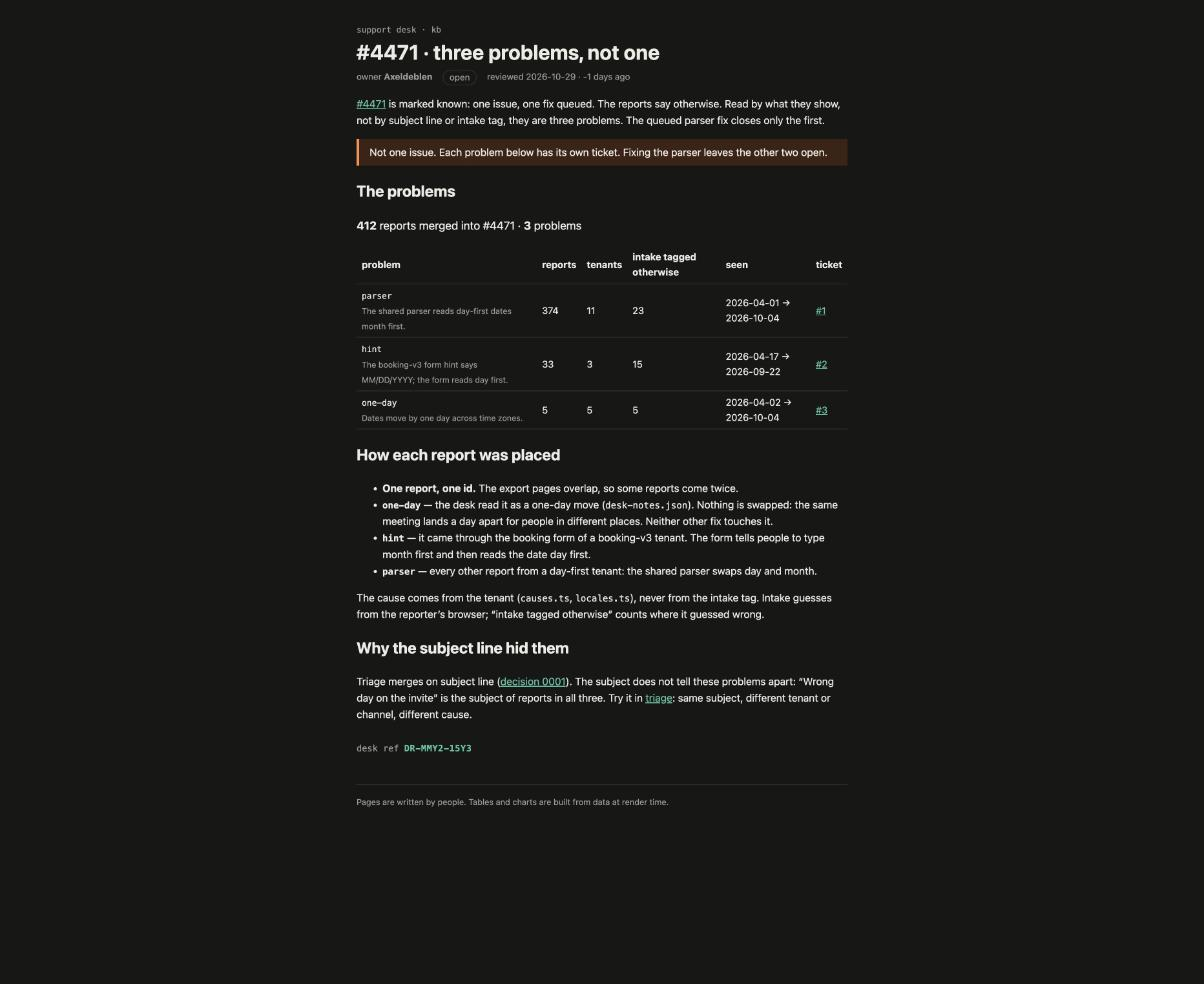
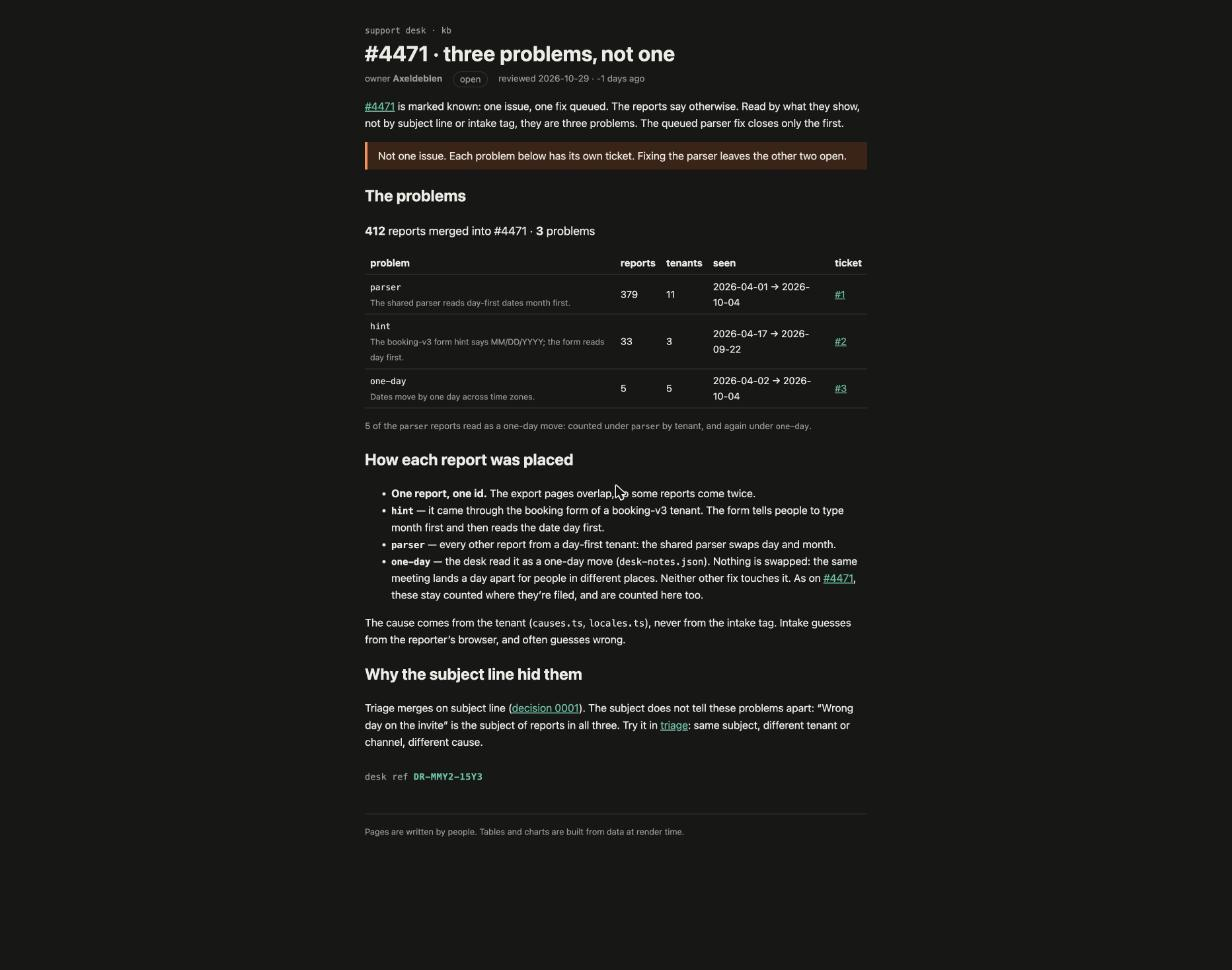
kb: count #4471 problems the desk's way (parser 379, hint 33, one-day 5)
ProblemTable now reuses groupByCause/readAs from causes.ts, so one-day moves stay
counted where they're filed (parser) and are counted again under one-day, as on
the #4471 page. Issue #1 updated to 379.

diff --git a/rendered/kb/incidents/4471/problems.html b/rendered/kb/incidents/4471/problems.html
@@ -9,41 +9,42 @@
 		<link href="../../../_app/immutable/chunks/B2Ul7l_u.js" rel="modulepreload">
 		<link href="../../../_app/immutable/chunks/BCPXOG7W.js" rel="modulepreload">
 		<link href="../../../_app/immutable/chunks/Dh1V97Jm.js" rel="modulepreload">
-		<link href="../../../_app/immutable/entry/app.CDaSZuXf.js" rel="modulepreload">
+		<link href="../../../_app/immutable/entry/app.DP2gnl0l.js" rel="modulepreload">
 		<link href="../../../_app/immutable/nodes/0.C9KfiiPz.js" rel="modulepreload">
 		<link href="../../../_app/immutable/chunks/DK3Fl9T5.js" rel="modulepreload">
-		<link href="../../../_app/immutable/nodes/5.BQZvvJVU.js" rel="modulepreload">
-		<link href="../../../_app/immutable/chunks/DHRKqqIB.js" rel="modulepreload">
+		<link href="../../../_app/immutable/nodes/5.M9dXc7AF.js" rel="modulepreload">
+		<link href="../../../_app/immutable/chunks/DVq9nhcl.js" rel="modulepreload">
 		<link href="../../../_app/immutable/chunks/BTPwLomz.js" rel="modulepreload">
 		<link href="../../../_app/immutable/chunks/CVBzP17p.js" rel="modulepreload">
 		<link href="../../../_app/immutable/chunks/BIy4WKJS.js" rel="modulepreload">
 		<!--e2jw2j--><!----><title>#4471 · three problems, not one · support kb</title>
 		<link href="../../../_app/immutable/assets/runbook.COyw0cbZ.css" rel="stylesheet">
 		<link href="../../../_app/immutable/assets/Callout.AbLv9dM_.css" rel="stylesheet">
-		<link href="../../../_app/immutable/assets/_page.BTXXALtW.css" rel="stylesheet">
+		<link href="../../../_app/immutable/assets/_page.COzalOJx.css" rel="stylesheet">
   </head>
   <body>
     <div style="display: contents"><!--[--><!--[--><!--[0--><!--[--><!--[--><!--[-1--><!--[--><div class="kb svelte-e2jw2j"><header><a class="crumb svelte-e2jw2j" href="/kb">support desk · kb</a> <h1 class="svelte-e2jw2j">#4471 · three problems, not one</h1> <p class="meta svelte-e2jw2j"><span>owner <b>Axeldeblen</b></span> <span class="status open svelte-e2jw2j">open</span> <span class="svelte-e2jw2j">reviewed 2026-10-29 · -1 days ago</span></p></header> <!--[-1--><!--]--> <main><p><a href="/kb/incidents/4471">#4471</a> is marked known: one issue, one fix queued. The reports say otherwise.
 Read by what they show, not by subject line or intake tag, they are three problems. The queued
-parser fix closes only the first.</p> <aside class="warn svelte-17bri61"><!---->Not one issue. Each problem below has its own ticket. Fixing the parser leaves the other two open.<!----></aside><!----> <h2>The problems</h2> <p class="sum svelte-1op6c6"><strong>412</strong> reports merged into #4471 · <strong>3</strong> problems</p> <table><thead><tr><th>problem</th><th>reports</th><th>tenants</th><th>intake tagged otherwise</th><th>seen</th><th>ticket</th></tr></thead><tbody><!--[--><tr class="svelte-1op6c6"><td class="svelte-1op6c6"><code>parser</code><!--[0--><br/><span class="what svelte-1op6c6">The shared parser reads day-first dates month first.</span><!--]--></td><td class="svelte-1op6c6">374</td><td class="svelte-1op6c6">11</td><td class="svelte-1op6c6">23</td><td class="svelte-1op6c6">2026-04-01 → 2026-10-04</td><td class="svelte-1op6c6"><!--[0--><a href="https://github.com/Axeldeblen/support-kb/issues/1">#1</a><!--]--></td></tr><tr class="svelte-1op6c6"><td class="svelte-1op6c6"><code>hint</code><!--[0--><br/><span class="what svelte-1op6c6">The booking-v3 form hint says MM/DD/YYYY; the form reads day first.</span><!--]--></td><td class="svelte-1op6c6">33</td><td class="svelte-1op6c6">3</td><td class="svelte-1op6c6">15</td><td class="svelte-1op6c6">2026-04-17 → 2026-09-22</td><td class="svelte-1op6c6"><!--[0--><a href="https://github.com/Axeldeblen/support-kb/issues/2">#2</a><!--]--></td></tr><tr class="svelte-1op6c6"><td class="svelte-1op6c6"><code>one-day</code><!--[0--><br/><span class="what svelte-1op6c6">Dates move by one day across time zones.</span><!--]--></td><td class="svelte-1op6c6">5</td><td class="svelte-1op6c6">5</td><td class="svelte-1op6c6">5</td><td class="svelte-1op6c6">2026-04-02 → 2026-10-04</td><td class="svelte-1op6c6"><!--[0--><a href="https://github.com/Axeldeblen/support-kb/issues/3">#3</a><!--]--></td></tr><!--]--></tbody></table><!----> <h2>How each report was placed</h2> <ul><li><strong>One report, one id.</strong> The export pages overlap, so some reports come twice.</li> <li><strong><code>one-day</code></strong> — the desk read it as a one-day move (<code>desk-notes.json</code>). Nothing is swapped: the
-same meeting lands a day apart for people in different places. Neither other fix touches it.</li> <li><strong><code>hint</code></strong> — it came through the booking form of a booking-v3 tenant. The form tells people to
-type month first and then reads the date day first.</li> <li><strong><code>parser</code></strong> — every other report from a day-first tenant: the shared parser swaps day and month.</li></ul> <p>The cause comes from the tenant (<code>causes.ts</code>, <code>locales.ts</code>), never from the intake tag. Intake
-guesses from the reporter’s browser; “intake tagged otherwise” counts where it guessed wrong.</p> <h2>Why the subject line hid them</h2> <p>Triage merges on subject line (<a href="/kb/decisions/0001-dedupe-by-subject">decision 0001</a>). The subject
+parser fix closes only the first.</p> <aside class="warn svelte-17bri61"><!---->Not one issue. Each problem below has its own ticket. Fixing the parser leaves the other two open.<!----></aside><!----> <h2>The problems</h2> <p class="sum svelte-1op6c6"><strong>412</strong> reports merged into #4471 · <strong>3</strong> problems</p> <table><thead><tr><th>problem</th><th>reports</th><th>tenants</th><th>seen</th><th>ticket</th></tr></thead><tbody><!--[--><tr class="svelte-1op6c6"><td class="svelte-1op6c6"><code>parser</code><!--[0--><br/><span class="what svelte-1op6c6">The shared parser reads day-first dates month first.</span><!--]--></td><td class="svelte-1op6c6">379</td><td class="svelte-1op6c6">11</td><td class="svelte-1op6c6">2026-04-01 → 2026-10-04</td><td class="svelte-1op6c6"><!--[0--><a href="https://github.com/Axeldeblen/support-kb/issues/1">#1</a><!--]--></td></tr><tr class="svelte-1op6c6"><td class="svelte-1op6c6"><code>hint</code><!--[0--><br/><span class="what svelte-1op6c6">The booking-v3 form hint says MM/DD/YYYY; the form reads day first.</span><!--]--></td><td class="svelte-1op6c6">33</td><td class="svelte-1op6c6">3</td><td class="svelte-1op6c6">2026-04-17 → 2026-09-22</td><td class="svelte-1op6c6"><!--[0--><a href="https://github.com/Axeldeblen/support-kb/issues/2">#2</a><!--]--></td></tr><tr class="svelte-1op6c6"><td class="svelte-1op6c6"><code>one-day</code><!--[0--><br/><span class="what svelte-1op6c6">Dates move by one day across time zones.</span><!--]--></td><td class="svelte-1op6c6">5</td><td class="svelte-1op6c6">5</td><td class="svelte-1op6c6">2026-04-02 → 2026-10-04</td><td class="svelte-1op6c6"><!--[0--><a href="https://github.com/Axeldeblen/support-kb/issues/3">#3</a><!--]--></td></tr><!--]--></tbody></table> <!--[--><!--[0--><p class="note svelte-1op6c6">5 of the <code>parser</code> reports read as a one-day move: counted under <code>parser</code> by tenant, and again under <code>one-day</code>.</p><!--]--><!--[-1--><!--]--><!--[-1--><!--]--><!--]--><!----> <h2>How each report was placed</h2> <ul><li><strong>One report, one id.</strong> The export pages overlap, so some reports come twice.</li> <li><strong><code>hint</code></strong> — it came through the booking form of a booking-v3 tenant. The form tells people to
+type month first and then reads the date day first.</li> <li><strong><code>parser</code></strong> — every other report from a day-first tenant: the shared parser swaps day and month.</li> <li><strong><code>one-day</code></strong> — the desk read it as a one-day move (<code>desk-notes.json</code>). Nothing is swapped: the
+same meeting lands a day apart for people in different places. Neither other fix touches it.
+As on <a href="/kb/incidents/4471">#4471</a>, these stay counted where they’re filed, and are counted here too.</li></ul> <p>The cause comes from the tenant (<code>causes.ts</code>, <code>locales.ts</code>), never from the intake tag. Intake
+guesses from the reporter’s browser, and often guesses wrong.</p> <h2>Why the subject line hid them</h2> <p>Triage merges on subject line (<a href="/kb/decisions/0001-dedupe-by-subject">decision 0001</a>). The subject
 does not tell these problems apart: “Wrong day on the invite” is the subject of reports in all three.
 Try it in <a href="/kb/triage/dedupe">triage</a>: same subject, different tenant or channel, different cause.</p> <!--[0--><p class="stamp svelte-1280m42">desk ref <b class="svelte-1280m42">DR-MMY2-15Y3</b></p><!--]--><!----><!----></main> <footer class="svelte-e2jw2j">Pages are written by people. Tables and charts are built from data at render time.</footer></div><!--]--><!--]--><!--]--><!----><!--]--><!--]--><!--]--><!----> <!--[-1--><!--]--><!--]-->
 			
 			<script>
 				{
-					__sveltekit_1koyehc = {
+					__sveltekit_vqgjbm = {
 						base: new URL("../../..", location).pathname.slice(0, -1),
-						version: "1793230261782"
+						version: "1793230309770"
 					};
 
 					const element = document.currentScript.parentElement;
 
 					import("../../../_app/immutable/entry/start.CH5w6lId.js").then(async (kit) => {
-						kit.init(__sveltekit_1koyehc);
-						const app = await import("../../../_app/immutable/entry/app.CDaSZuXf.js");
+						kit.init(__sveltekit_vqgjbm);
+						const app = await import("../../../_app/immutable/entry/app.DP2gnl0l.js");
 						kit.start(app, element, {
 							node_ids: [0, 5],
 							data: [null,null],

diff --git a/rendered/_app/immutable/chunks/DVq9nhcl.js b/rendered/_app/immutable/chunks/DVq9nhcl.js
@@ -1,0 +1,9 @@
+import{t as e}from"./DK3Fl9T5.js";import{E as t,F as n,H as r,I as i,K as a,L as o,N as s,O as c,R as l,S as u,T as d,U as f,W as p,_ as m,c as h,d as g,h as _,k as v,q as y,r as b,t as x,w as S}from"./BCPXOG7W.js";import{t as C}from"./BTPwLomz.js";import{n as w,t as T}from"./CVBzP17p.js";import{a as E,l as D,o as O,r as k,t as A}from"./BIy4WKJS.js";var j=t(`<br/><span class="what svelte-1op6c6"> </span>`,1),M=t(`<a> </a>`),N=t(`<tr><td class="svelte-1op6c6"><code> </code><!></td><td class="svelte-1op6c6"> </td><td class="svelte-1op6c6"> </td><td class="svelte-1op6c6"> </td><td class="svelte-1op6c6"><!></td></tr>`),P=t(`<p class="note svelte-1op6c6"> <code> </code> reports read as a one-day move: counted under <code> </code> by tenant, and again under <code>one-day</code>.</p>`),F=t(`<p class="sum svelte-1op6c6"><strong> </strong> <strong> </strong> problems</p> <table><thead><tr><th>problem</th><th>reports</th><th>tenants</th><th>seen</th><th>ticket</th></tr></thead><tbody></tbody></table> <!>`,1);function I(e,t){p(t,!0);let b=r(()=>D(w).filter(e=>e.mergedInto===t.ticket)),x=r(()=>E(v(b),k)),C=r(()=>v(b).filter(e=>T.oneDayMove.includes(e.id))),A=r(()=>[...v(x).map(e=>({key:e.cause,reports:e.reports,oneDay:O(e,T.oneDayMove)})),{key:`one-day`,reports:v(C),oneDay:0}].filter(e=>e.reports.length).map(e=>{let n=e.reports.map(e=>e.receivedAt.slice(0,10)).sort();return{...e,p:t.problems.find(t=>t.key===e.key),tenants:new Set(e.reports.map(e=>e.tenant)).size,seen:`${n[0]} → ${n[n.length-1]}`}}));var I=F(),L=i(I),R=n(L),z=o(R,!0),B=l(R),V=l(B),H=o(V,!0);a(),y(L);var U=l(L,2),W=l(n(U));_(W,21,()=>v(A),e=>e.key,(e,t)=>{var r=N();let a;var d=n(r),f=n(d),p=o(f,!0),_=l(f),b=e=>{var n=j(),r=l(i(n)),a=o(r,!0);s(()=>u(a,v(t).p.what)),S(e,n)};m(_,e=>{v(t).p&&e(b)}),y(d);var x=l(d),C=o(x,!0),w=l(x),T=o(w,!0),E=l(w),D=o(E,!0),O=l(E),k=n(O),A=e=>{var n=M(),r=o(n,!0);s(e=>{h(n,`href`,v(t).p.issue),u(r,e)},[()=>v(t).p.issue.replace(/^.*\/issues\//,`#`)]),S(e,n)},P=e=>{var t=c(`no ticket yet`);S(e,t)};m(k,e=>{v(t).p?e(A):e(P,-1)}),y(O),y(r),s(()=>{a=g(r,1,`svelte-1op6c6`,null,a,{wrong:!v(t).p}),u(p,v(t).key),u(C,v(t).reports.length),u(T,v(t).tenants),u(D,v(t).seen)}),S(e,r)}),y(W),y(U);var G=l(U,2);_(G,17,()=>v(A),e=>e.key,(e,t)=>{var r=d(),c=i(r),f=e=>{var r=P(),i=n(r),c=l(i),d=o(c,!0),f=l(c,2),p=o(f,!0);a(3),y(r),s(()=>{u(i,`${v(t).oneDay??``} of the `),u(d,v(t).key),u(p,v(t).key)}),S(e,r)};m(c,e=>{v(t).oneDay&&e(f)}),S(e,r)}),s(()=>{u(z,v(b).length),u(B,` reports merged into #${t.ticket??``} · `),u(H,v(A).length)}),S(e,I),f()}var L=`0123456789ABCDEFGHJKMNPQRSTVWXYZ`;function R(e,t){let n=t>>>0;for(let t=0;t<e.length;t++)n^=e.charCodeAt(t),n=Math.imul(n,16777619)>>>0;return n}function z(e){let t=e.trim(),n=R(t,2166136261),r=R(t,2654435769),i=BigInt(n)<<8n|BigInt(r&255),a=``;for(let e=0;e<8;e++)a=L[Number(i&31n)]+a,i>>=5n;return`DR-${a.slice(0,4)}-${a.slice(4)}`}var B=t(`<p class="stamp svelte-1280m42">desk ref <b class="svelte-1280m42"> </b></p>`),V=t(`<p class="stamp missing svelte-1280m42">no desk ref: this page isn't signed (no <code>signature</code> in its frontmatter)</p>`);function H(e,t){p(t,!0);let a=r(()=>t.signature?z(t.signature):null);var c=d(),h=i(c),g=e=>{var t=B(),r=l(n(t)),i=o(r,!0);y(t),s(()=>u(i,v(a))),S(e,t)},_=e=>{var t=V();S(e,t)};m(h,e=>{v(a)?e(g):e(_,-1)}),S(e,c),f()}var U=e({default:()=>Q,metadata:()=>W}),W={layout:`runbook`,title:`#4471 · three problems, not one`,owner:`Axeldeblen`,status:`open`,reviewed:`2026-10-29T00:00:00.000Z`,signature:`Axeldeblen`},{layout:G,title:K,owner:q,status:J,reviewed:Y,signature:X}=W,Z=t(`<p><a href="/kb/incidents/4471">#4471</a> is marked known: one issue, one fix queued. The reports say otherwise.
+Read by what they show, not by subject line or intake tag, they are three problems. The queued
+parser fix closes only the first.</p> <!> <h2>The problems</h2> <!> <h2>How each report was placed</h2> <ul><li><strong>One report, one id.</strong> The export pages overlap, so some reports come twice.</li> <li><strong><code>hint</code></strong> — it came through the booking form of a booking-v3 tenant. The form tells people to
+type month first and then reads the date day first.</li> <li><strong><code>parser</code></strong> — every other report from a day-first tenant: the shared parser swaps day and month.</li> <li><strong><code>one-day</code></strong> — the desk read it as a one-day move (<code>desk-notes.json</code>). Nothing is swapped: the
+same meeting lands a day apart for people in different places. Neither other fix touches it.
+As on <a href="/kb/incidents/4471">#4471</a>, these stay counted where they’re filed, and are counted here too.</li></ul> <p>The cause comes from the tenant (<code>causes.ts</code>, <code>locales.ts</code>), never from the intake tag. Intake
+guesses from the reporter’s browser, and often guesses wrong.</p> <h2>Why the subject line hid them</h2> <p>Triage merges on subject line (<a href="/kb/decisions/0001-dedupe-by-subject">decision 0001</a>). The subject
+does not tell these problems apart: “Wrong day on the invite” is the subject of reports in all three.
+Try it in <a href="/kb/triage/dedupe">triage</a>: same subject, different tenant or channel, different cause.</p> <!>`,1);function Q(e,t){let n=x(t,[`children`,`$$slots`,`$$events`,`$$legacy`]),r=`https://github.com/Axeldeblen/support-kb/issues`,o=[{key:`parser`,what:`The shared parser reads day-first dates month first.`,issue:`${r}/1`},{key:`hint`,what:`The booking-v3 form hint says MM/DD/YYYY; the form reads day first.`,issue:`${r}/2`},{key:`one-day`,what:`Dates move by one day across time zones.`,issue:`${r}/3`}];C(e,b(()=>n,()=>W,{children:(e,t)=>{var n=Z(),r=l(i(n),2);A(r,{kind:`warn`,children:(e,t)=>{a();var n=c(`Not one issue. Each problem below has its own ticket. Fixing the parser leaves the other two open.`);S(e,n)},$$slots:{default:!0}});var s=l(r,4);I(s,{ticket:4471,get problems(){return o}}),H(l(s,12),{get signature(){return X}}),S(e,n)},$$slots:{default:!0}}))}export{Q as n,U as t};

diff --git a/src/lib/kb/ProblemTable.svelte b/src/lib/kb/ProblemTable.svelte
@@ -1,51 +1,50 @@
 <script lang="ts">
   import reports from '#lib/data/reports-4471.json';
   import notes from '#lib/data/desk-notes.json';
-  import { causeOf, uniqueById, type Report } from '#lib/kb/causes';
+  import { groupByCause, readAs, uniqueById, type Report } from '#lib/kb/causes';
   import { tenantOf } from '#lib/kb/locales';
 
-  // One row per problem. A report the desk read as a one-day move (desk-notes.json) is its own
-  // problem: nothing is swapped, so neither the parser nor the hint explains it.
+  // One row per problem, counted the desk's way (CauseTable): by cause, from the tenant. Reports the
+  // desk read as a one-day move (desk-notes.json) stay counted where they're filed and get their own
+  // row too: nothing in them is swapped, so they are a problem of their own.
   type Problem = { key: string; what: string; issue: string };
   let { ticket, problems }: { ticket: number; problems: Problem[] } = $props();
 
   const merged = $derived(uniqueById(reports as Report[]).filter((r) => r.mergedInto === ticket));
-  const problemOf = (r: Report) =>
-    notes.oneDayMove.includes(r.id) ? 'one-day' : (causeOf(r, tenantOf(r)) ?? 'unplaced');
+  const groups = $derived(groupByCause(merged, tenantOf));
+  const oneDay = $derived(merged.filter((r) => notes.oneDayMove.includes(r.id)));
 
-  const rows = $derived(
-    [...new Set([...problems.map((p) => p.key), ...merged.map(problemOf)])].map((key) => {
-      const rs = merged.filter((r) => problemOf(r) === key);
-      const days = rs.map((r) => r.receivedAt.slice(0, 10)).sort();
+  const rows = $derived([
+    ...groups.map((g) => ({ key: g.cause, reports: g.reports, oneDay: readAs(g, notes.oneDayMove) })),
+    { key: 'one-day', reports: oneDay, oneDay: 0 },
+  ]
+    .filter((r) => r.reports.length)
+    .map((r) => {
+      const days = r.reports.map((x) => x.receivedAt.slice(0, 10)).sort();
       return {
-        key,
-        p: problems.find((p) => p.key === key),
-        count: rs.length,
-        tenants: new Set(rs.map((r) => r.tenant)).size,
-        // Intake guessed a different cause from the reporter's browser.
-        mistagged: rs.filter((r) => r.meta.intakeTag !== key).length,
-        seen: days.length ? `${days[0]} → ${days[days.length - 1]}` : '—',
+        ...r,
+        p: problems.find((p) => p.key === r.key),
+        tenants: new Set(r.reports.map((x) => x.tenant)).size,
+        seen: `${days[0]} → ${days[days.length - 1]}`,
       };
-    }),
-  );
+    }));
 </script>
 
 <p class="sum">
   <strong>{merged.length}</strong> reports merged into #{ticket} ·
-  <strong>{rows.filter((r) => r.count).length}</strong> problems
+  <strong>{rows.length}</strong> problems
 </p>
 
 <table>
   <thead>
-    <tr><th>problem</th><th>reports</th><th>tenants</th><th>intake tagged otherwise</th><th>seen</th><th>ticket</th></tr>
+    <tr><th>problem</th><th>reports</th><th>tenants</th><th>seen</th><th>ticket</th></tr>
   </thead>
   <tbody>
     {#each rows as r (r.key)}
       <tr class:wrong={!r.p}>
         <td><code>{r.key}</code>{#if r.p}<br /><span class="what">{r.p.what}</span>{/if}</td>
-        <td>{r.count}</td>
+        <td>{r.reports.length}</td>
         <td>{r.tenants}</td>
-        <td>{r.mistagged}</td>
         <td>{r.seen}</td>
         <td>{#if r.p}<a href={r.p.issue}>{r.p.issue.replace(/^.*\/issues\//, '#')}</a>{:else}no ticket yet{/if}</td>
       </tr>
@@ -53,8 +52,15 @@
   </tbody>
 </table>
 
+{#each rows as r (r.key)}
+  {#if r.oneDay}
+    <p class="note">{r.oneDay} of the <code>{r.key}</code> reports read as a one-day move: counted under <code>{r.key}</code> by tenant, and again under <code>one-day</code>.</p>
+  {/if}
+{/each}
+
 <style>
   .sum { font-size: 1.1rem; }
   .what { color: var(--muted); font-size: 0.85em; }
+  .note { color: var(--muted); font-size: 0.85em; }
   .wrong td { background: var(--warn-bg); }
 </style>

diff --git a/rendered/kb.html b/rendered/kb.html
@@ -9,22 +9,22 @@
 		<link href="./_app/immutable/chunks/B2Ul7l_u.js" rel="modulepreload">
 		<link href="./_app/immutable/chunks/BCPXOG7W.js" rel="modulepreload">
 		<link href="./_app/immutable/chunks/Dh1V97Jm.js" rel="modulepreload">
-		<link href="./_app/immutable/entry/app.CDaSZuXf.js" rel="modulepreload">
+		<link href="./_app/immutable/entry/app.DP2gnl0l.js" rel="modulepreload">
 		<link href="./_app/immutable/nodes/0.C9KfiiPz.js" rel="modulepreload">
 		<link href="./_app/immutable/chunks/DK3Fl9T5.js" rel="modulepreload">
-		<link href="./_app/immutable/nodes/2.wadfA9mN.js" rel="modulepreload">
+		<link href="./_app/immutable/nodes/2.BORxayiI.js" rel="modulepreload">
 		<link href="./_app/immutable/chunks/BTPwLomz.js" rel="modulepreload">
 		<link href="./_app/immutable/chunks/YX22L_Ud.js" rel="modulepreload">
 		<link href="./_app/immutable/chunks/CgeRC4yK.js" rel="modulepreload">
 		<link href="./_app/immutable/chunks/CVBzP17p.js" rel="modulepreload">
 		<link href="./_app/immutable/chunks/BIy4WKJS.js" rel="modulepreload">
-		<link href="./_app/immutable/chunks/DHRKqqIB.js" rel="modulepreload">
+		<link href="./_app/immutable/chunks/DVq9nhcl.js" rel="modulepreload">
 		<link href="./_app/immutable/chunks/BGqJVSDw.js" rel="modulepreload">
 		<!--e2jw2j--><!----><title>Support knowledge base · support kb</title>
 		<link href="./_app/immutable/assets/runbook.COyw0cbZ.css" rel="stylesheet">
 		<link href="./_app/immutable/assets/Callout.AbLv9dM_.css" rel="stylesheet">
 		<link href="./_app/immutable/assets/_page.D56XP2ro.css" rel="stylesheet">
-		<link href="./_app/immutable/assets/_page.BTXXALtW.css" rel="stylesheet">
+		<link href="./_app/immutable/assets/_page.COzalOJx.css" rel="stylesheet">
 		<link href="./_app/immutable/assets/_page.DO6Yid7X.css" rel="stylesheet">
 		<link href="./_app/immutable/assets/2.Bt0MwIZg.css" rel="stylesheet">
   </head>
@@ -34,16 +34,16 @@ computed by a component, not typed into a paragraph.</p><!----></main> <footer c
 			
 			<script>
 				{
-					__sveltekit_1koyehc = {
+					__sveltekit_vqgjbm = {
 						base: new URL(".", location).pathname.slice(0, -1),
-						version: "1793230261782"
+						version: "1793230309770"
 					};
 
 					const element = document.currentScript.parentElement;
 
 					import("./_app/immutable/entry/start.CH5w6lId.js").then(async (kit) => {
-						kit.init(__sveltekit_1koyehc);
-						const app = await import("./_app/immutable/entry/app.CDaSZuXf.js");
+						kit.init(__sveltekit_vqgjbm);
+						const app = await import("./_app/immutable/entry/app.DP2gnl0l.js");
 						kit.start(app, element, {
 							node_ids: [0, 2],
 							data: [null,null],

diff --git a/rendered/_app/immutable/nodes/2.BORxayiI.js b/rendered/_app/immutable/nodes/2.BORxayiI.js
@@ -1,0 +1,2 @@
+import{E as e,F as t,I as n,K as r,L as i,N as a,R as o,S as s,U as c,W as l,c as u,d,h as f,i as p,k as m,q as h,r as g,t as _,w as v}from"../chunks/BCPXOG7W.js";import{n as y,r as b,t as x}from"../chunks/BTPwLomz.js";import{t as S}from"../chunks/YX22L_Ud.js";import{t as C}from"../chunks/CgeRC4yK.js";import{t as w}from"../chunks/DVq9nhcl.js";import{t as T}from"../chunks/BGqJVSDw.js";var E=e(`<tr><td><a> </a></td><td> </td><td> </td><td> </td></tr>`),D=e(`<table><thead><tr><th>page</th><th>owner</th><th>status</th><th>reviewed</th></tr></thead><tbody></tbody></table>`);function O(e,n){l(n,!1);let r=Object.entries(Object.assign({"/src/routes/kb/decisions/0001-dedupe-by-subject/+page.svx":S,"/src/routes/kb/incidents/4471/+page.svx":C,"/src/routes/kb/incidents/4471/problems/+page.svx":w,"/src/routes/kb/triage/dedupe/+page.svx":T})).map(([e,t])=>({href:e.replace(`/src/routes`,``).replace(`/+page.svx`,``),...t.metadata})).sort((e,t)=>e.href.localeCompare(t.href));p();var g=D(),_=o(t(g));f(_,5,()=>r,e=>e.href,(e,n)=>{var r=E(),c=t(r),l=t(c),f=i(l,!0);h(c);var p=o(c),g=i(p,!0),_=o(p),x=i(_,!0),S=o(_);let C;var w=i(S,!0);h(r),a((e,t)=>{u(l,`href`,m(n).href),s(f,m(n).title),s(g,m(n).owner),s(x,m(n).status),C=d(S,1,`svelte-tbc1ha`,null,C,{stale:e}),s(w,t)},[()=>y(m(n).reviewed)>180,()=>b(m(n).reviewed)]),v(e,r)}),h(_),h(g),v(e,g),c()}var k={layout:`runbook`,title:`Support knowledge base`,owner:`support desk`,status:`living`,reviewed:`2026-09-28T00:00:00.000Z`},{layout:A,title:j,owner:M,status:N,reviewed:P}=k,F=e(`<p>What the support desk knows, kept next to the code that knows it. One desk, every product: <code>sched-prod</code> (calendar invites for about 300k people) and the rest. When something breaks, the reports land here first.</p> <p>Start with <a href="/kb/triage/dedupe">triage</a> if you are new on the desk.</p> <h2>Pages</h2> <!> <h2>Writing a page</h2> <p>Keep the words here and the logic in <code>src/lib</code>. A number that can be computed should be
+computed by a component, not typed into a paragraph.</p>`,1);function I(e,t){let i=_(t,[`children`,`$$slots`,`$$events`,`$$legacy`]);x(e,g(()=>i,()=>k,{children:(e,t)=>{var i=F();O(o(n(i),6),{}),r(4),v(e,i)},$$slots:{default:!0}}))}export{I as component};

diff --git a/rendered/_app/immutable/entry/app.DP2gnl0l.js b/rendered/_app/immutable/entry/app.DP2gnl0l.js
@@ -1,0 +1,2 @@
+const __vite__mapDeps=(i,m=__vite__mapDeps,d=(m.f||(m.f=["../nodes/0.C9KfiiPz.js","../chunks/DK3Fl9T5.js","../chunks/BCPXOG7W.js","../nodes/1.mOwa9YdW.js","../chunks/Dh1V97Jm.js","./payload.DSmR2FwN.js","../nodes/2.BORxayiI.js","../chunks/BTPwLomz.js","../assets/runbook.COyw0cbZ.css","../chunks/YX22L_Ud.js","../chunks/CgeRC4yK.js","../chunks/CVBzP17p.js","../chunks/BIy4WKJS.js","../assets/Callout.AbLv9dM_.css","../assets/_page.D56XP2ro.css","../chunks/DVq9nhcl.js","../assets/_page.COzalOJx.css","../chunks/BGqJVSDw.js","../assets/_page.DO6Yid7X.css","../assets/2.Bt0MwIZg.css","../nodes/3.DRxPfvn3.js","../nodes/4.rt2PfD_4.js","../nodes/5.M9dXc7AF.js","../nodes/6.sFtxrtyV.js"])))=>i.map(i=>d[i]);
+import{t as e}from"../chunks/CRzLMJPS.js";var t={},n=[()=>e(()=>import(`../nodes/0.C9KfiiPz.js`),__vite__mapDeps([0,1,2]),import.meta.url),()=>e(()=>import(`../nodes/1.mOwa9YdW.js`),__vite__mapDeps([3,2,4,5]),import.meta.url),()=>e(()=>import(`../nodes/2.BORxayiI.js`),__vite__mapDeps([6,2,7,8,9,1,10,11,12,13,14,15,16,17,18,19]),import.meta.url),()=>e(()=>import(`../nodes/3.DRxPfvn3.js`),__vite__mapDeps([20,9,1,2,7,8]),import.meta.url),()=>e(()=>import(`../nodes/4.rt2PfD_4.js`),__vite__mapDeps([21,10,1,2,7,8,11,12,13,14]),import.meta.url),()=>e(()=>import(`../nodes/5.M9dXc7AF.js`),__vite__mapDeps([22,15,1,2,7,8,11,12,13,16]),import.meta.url),()=>e(()=>import(`../nodes/6.sFtxrtyV.js`),__vite__mapDeps([23,17,1,2,7,8,12,13,18]),import.meta.url)],r=[],i={"/kb":[2],"/kb/decisions/0001-dedupe-by-subject":[3],"/kb/incidents/4471":[4],"/kb/incidents/4471/problems":[5],"/kb/triage/dedupe":[6]},a={handleError:(({kind:e,error:t})=>{e===`unknown`&&console.error(t)}),reroute:(()=>{}),transport:{}},o=Object.fromEntries(Object.entries(a.transport).map(([e,t])=>[e,t.decode])),s=Object.fromEntries(Object.entries(a.transport).map(([e,t])=>[e,t.encode])),c=!1,l=(e,t)=>o[e](t),u=()=>e(()=>import(`../chunks/Bjy-W4x2.js`).then(e=>e.default),[],import.meta.url);export{l as decode,o as decoders,i as dictionary,s as encoders,u as get_error_template,c as hash,a as hooks,t as matchers,n as nodes,r as server_loads};

diff --git a/rendered/kb/decisions/0001-dedupe-by-subject.html b/rendered/kb/decisions/0001-dedupe-by-subject.html
@@ -9,7 +9,7 @@
 		<link href="../../_app/immutable/chunks/B2Ul7l_u.js" rel="modulepreload">
 		<link href="../../_app/immutable/chunks/BCPXOG7W.js" rel="modulepreload">
 		<link href="../../_app/immutable/chunks/Dh1V97Jm.js" rel="modulepreload">
-		<link href="../../_app/immutable/entry/app.CDaSZuXf.js" rel="modulepreload">
+		<link href="../../_app/immutable/entry/app.DP2gnl0l.js" rel="modulepreload">
 		<link href="../../_app/immutable/nodes/0.C9KfiiPz.js" rel="modulepreload">
 		<link href="../../_app/immutable/chunks/DK3Fl9T5.js" rel="modulepreload">
 		<link href="../../_app/immutable/nodes/3.DRxPfvn3.js" rel="modulepreload">
@@ -26,16 +26,16 @@ engineering merges them later.</li></ul><!----></main> <footer class="svelte-e2j
 			
 			<script>
 				{
-					__sveltekit_1koyehc = {
+					__sveltekit_vqgjbm = {
 						base: new URL("../..", location).pathname.slice(0, -1),
-						version: "1793230261782"
+						version: "1793230309770"
 					};
 
 					const element = document.currentScript.parentElement;
 
 					import("../../_app/immutable/entry/start.CH5w6lId.js").then(async (kit) => {
-						kit.init(__sveltekit_1koyehc);
-						const app = await import("../../_app/immutable/entry/app.CDaSZuXf.js");
+						kit.init(__sveltekit_vqgjbm);
+						const app = await import("../../_app/immutable/entry/app.DP2gnl0l.js");
 						kit.start(app, element, {
 							node_ids: [0, 3],
 							data: [null,null],

diff --git a/rendered/kb/incidents/4471.html b/rendered/kb/incidents/4471.html
@@ -9,7 +9,7 @@
 		<link href="../../_app/immutable/chunks/B2Ul7l_u.js" rel="modulepreload">
 		<link href="../../_app/immutable/chunks/BCPXOG7W.js" rel="modulepreload">
 		<link href="../../_app/immutable/chunks/Dh1V97Jm.js" rel="modulepreload">
-		<link href="../../_app/immutable/entry/app.CDaSZuXf.js" rel="modulepreload">
+		<link href="../../_app/immutable/entry/app.DP2gnl0l.js" rel="modulepreload">
 		<link href="../../_app/immutable/nodes/0.C9KfiiPz.js" rel="modulepreload">
 		<link href="../../_app/immutable/chunks/DK3Fl9T5.js" rel="modulepreload">
 		<link href="../../_app/immutable/nodes/4.rt2PfD_4.js" rel="modulepreload">
@@ -29,16 +29,16 @@ first. The fix is queued.</p> <aside class="note svelte-17bri61"><!---->Known. O
 			
 			<script>
 				{
-					__sveltekit_1koyehc = {
+					__sveltekit_vqgjbm = {
 						base: new URL("../..", location).pathname.slice(0, -1),
-						version: "1793230261782"
+						version: "1793230309770"
 					};
 
 					const element = document.currentScript.parentElement;
 
 					import("../../_app/immutable/entry/start.CH5w6lId.js").then(async (kit) => {
-						kit.init(__sveltekit_1koyehc);
-						const app = await import("../../_app/immutable/entry/app.CDaSZuXf.js");
+						kit.init(__sveltekit_vqgjbm);
+						const app = await import("../../_app/immutable/entry/app.DP2gnl0l.js");
 						kit.start(app, element, {
 							node_ids: [0, 4],
 							data: [null,null],

diff --git a/rendered/kb/triage/dedupe.html b/rendered/kb/triage/dedupe.html
@@ -9,7 +9,7 @@
 		<link href="../../_app/immutable/chunks/B2Ul7l_u.js" rel="modulepreload">
 		<link href="../../_app/immutable/chunks/BCPXOG7W.js" rel="modulepreload">
 		<link href="../../_app/immutable/chunks/Dh1V97Jm.js" rel="modulepreload">
-		<link href="../../_app/immutable/entry/app.CDaSZuXf.js" rel="modulepreload">
+		<link href="../../_app/immutable/entry/app.DP2gnl0l.js" rel="modulepreload">
 		<link href="../../_app/immutable/nodes/0.C9KfiiPz.js" rel="modulepreload">
 		<link href="../../_app/immutable/chunks/DK3Fl9T5.js" rel="modulepreload">
 		<link href="../../_app/immutable/nodes/6.sFtxrtyV.js" rel="modulepreload">
@@ -29,16 +29,16 @@ anything else.<!----></aside><!----> <h2>Try it</h2> <div class="try svelte-gq0h
 			
 			<script>
 				{
-					__sveltekit_1koyehc = {
+					__sveltekit_vqgjbm = {
 						base: new URL("../..", location).pathname.slice(0, -1),
-						version: "1793230261782"
+						version: "1793230309770"
 					};
 
 					const element = document.currentScript.parentElement;
 
 					import("../../_app/immutable/entry/start.CH5w6lId.js").then(async (kit) => {
-						kit.init(__sveltekit_1koyehc);
-						const app = await import("../../_app/immutable/entry/app.CDaSZuXf.js");
+						kit.init(__sveltekit_vqgjbm);
+						const app = await import("../../_app/immutable/entry/app.DP2gnl0l.js");
 						kit.start(app, element, {
 							node_ids: [0, 6],
 							data: [null,null],

diff --git a/rendered/_app/immutable/assets/_page.COzalOJx.css b/rendered/_app/immutable/assets/_page.COzalOJx.css
@@ -1,0 +1,1 @@
+.sum.svelte-1op6c6{font-size:1.1rem}.what.svelte-1op6c6,.note.svelte-1op6c6{color:var(--muted);font-size:.85em}.wrong.svelte-1op6c6 td:where(.svelte-1op6c6){background:var(--warn-bg)}.stamp.svelte-1280m42{font:.85rem var(--mono);color:var(--muted);margin:2rem 0 0}.stamp.svelte-1280m42 b:where(.svelte-1280m42){color:var(--accent);letter-spacing:.04em}.missing.svelte-1280m42{color:var(--warn)}

diff --git a/rendered/_app/immutable/nodes/5.M9dXc7AF.js b/rendered/_app/immutable/nodes/5.M9dXc7AF.js
@@ -1,0 +1,1 @@
+export{n as component}from"../chunks/DVq9nhcl.js";
